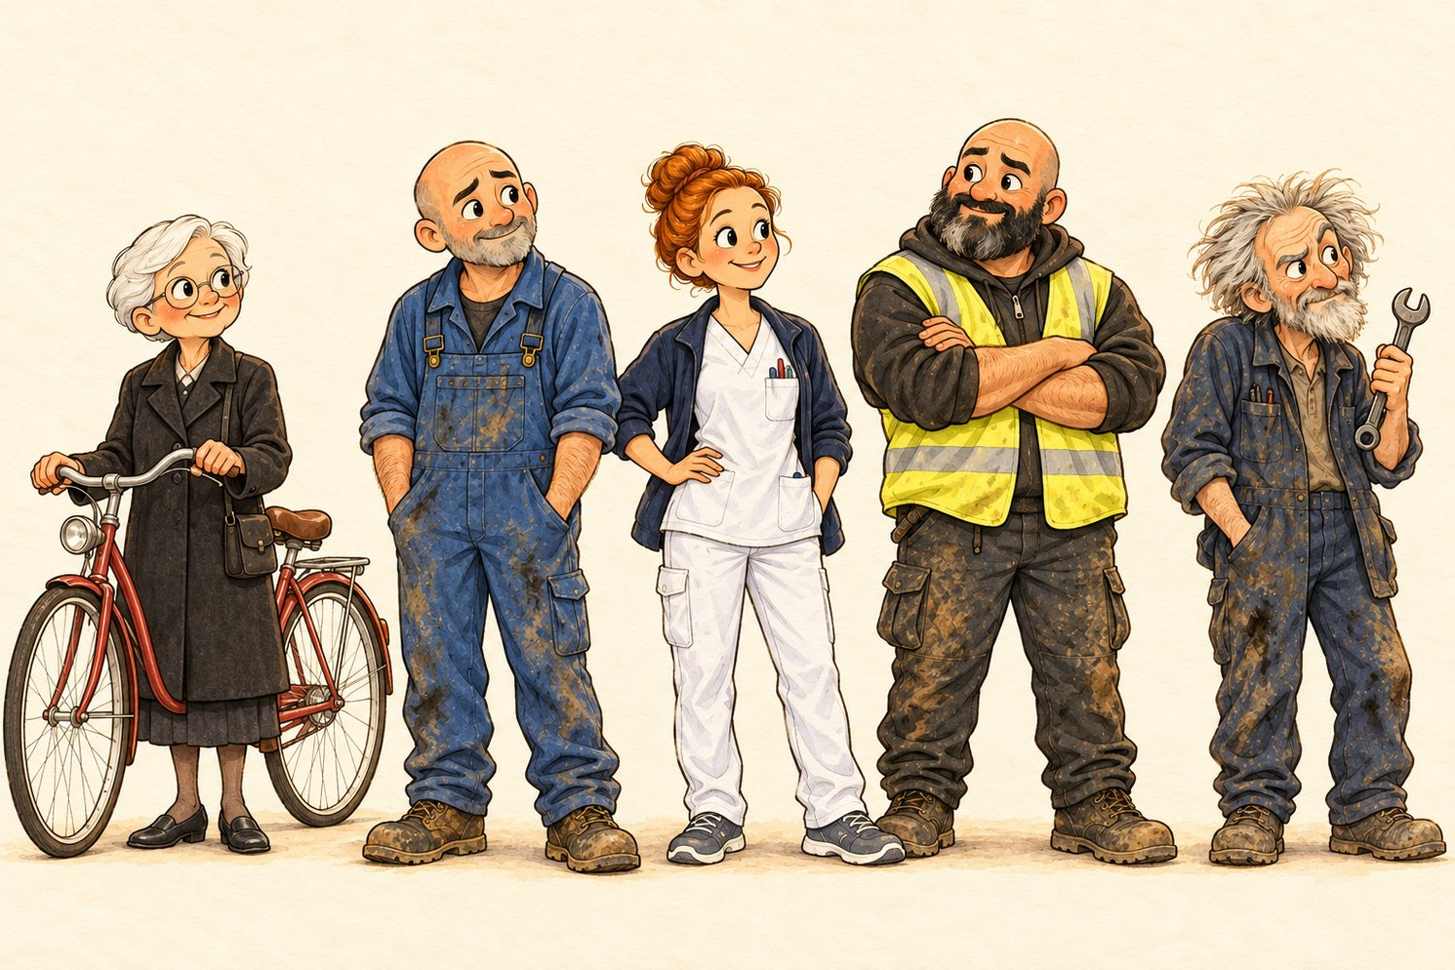
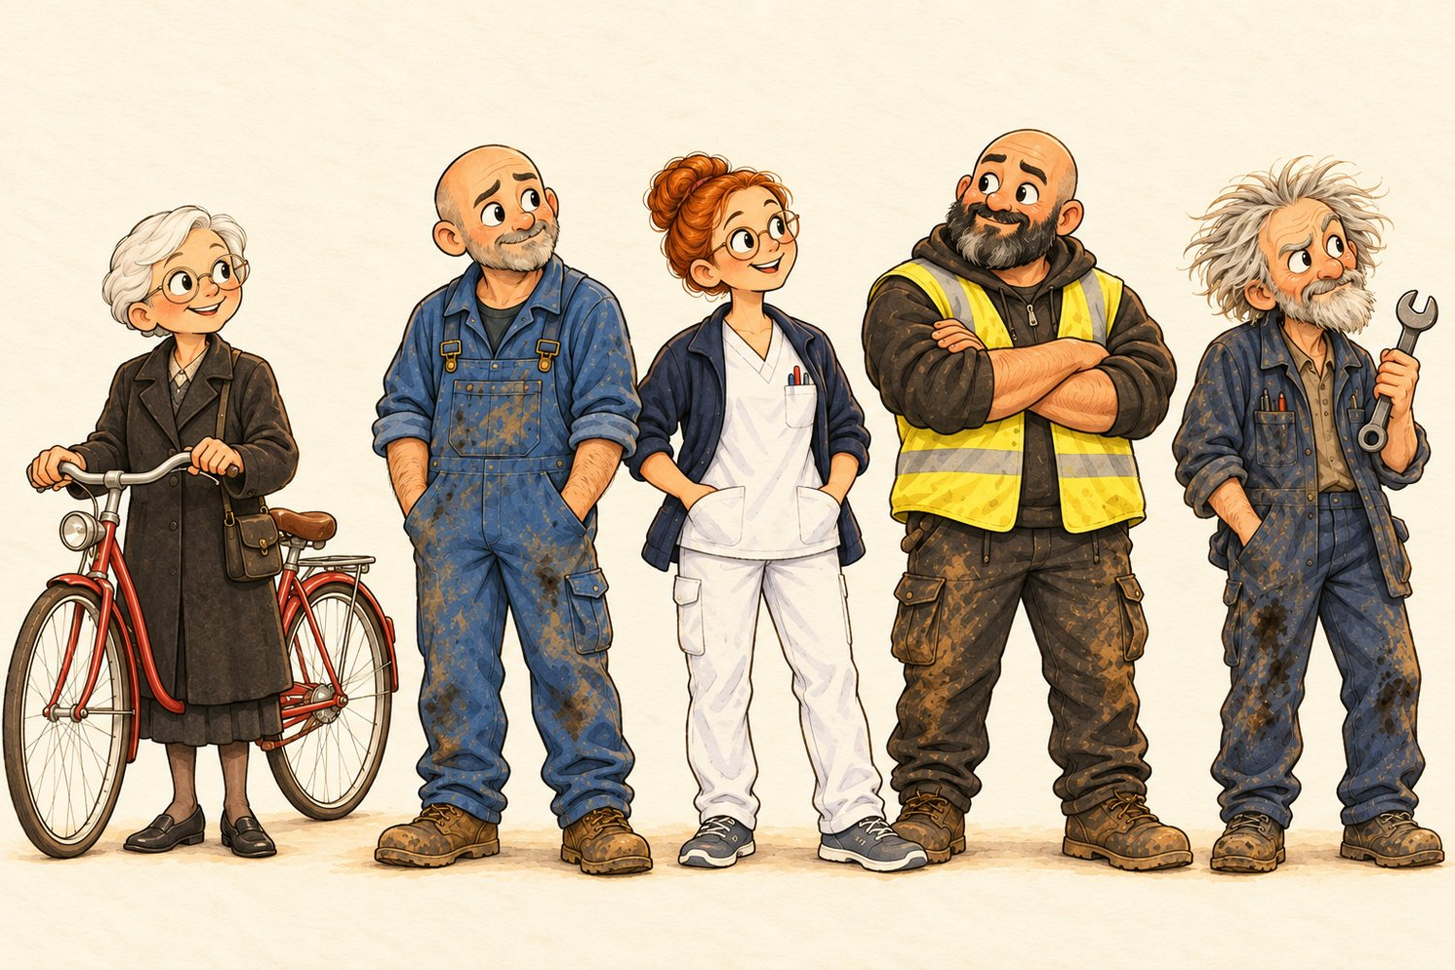
Amerikanska namn, modellark och rättade karaktärer

diff --git a/characters/index.html b/characters/index.html
@@ -29,9 +29,9 @@
 <section><div class="wrap">
 <div class="eyebrow">Internt, för granskning</div>
 <h1>Alla karaktärer</h1>
-<div class="note"><b>Så granskar du:</b> tryck på en bild för full storlek. Skriv vad du vill ändra per karaktär (namn + ändring), så gör jag om just dem. Alla karaktärer i Penny-världen, även Penny, är nya (v2) i samma stil som omslagen. Fäll ut "Visa gamla designen" för att se skillnaden. Ben, Maya och Alex är nu också v2 i samma sagobokstil, med de gamla arken utfällbara under varje serie. Uppdaterat: alla har nu egna frisyrer.</div>
+<div class="note"><b>Namn:</b> engelska (amerikanska) namn först, svenska inom parentes. Hela listan för alla serier finns i NAMN-SV-EN.md. Uppdaterat: Signe, Rådet, Sara och Helena är rättade efter manusen.<br><br><b>Så granskar du:</b> tryck på en bild för full storlek. Skriv vad du vill ändra per karaktär (namn + ändring), så gör jag om just dem. Alla karaktärer i Penny-världen, även Penny, är nya (v2) i samma stil som omslagen. Fäll ut "Visa gamla designen" för att se skillnaden. Ben, Maya och Alex är nu också v2 i samma sagobokstil, med de gamla arken utfällbara under varje serie. Uppdaterat: alla har nu egna frisyrer.</div>
 <h2>Penny and the Golden Notebook (7–10) och Penny and the Seed (3–6)</h2>
 <div class="grid-ch">
-<article class="ch"><a href="img/penny.jpg?v=2" target="_blank"><img src="img/penny.jpg?v=2" alt="Penny Lind, 9" loading="lazy"></a><div class="meta"><span class="tag">Ny v2</span><h3>Penny Lind, 9</h3><p>Huvudpersonen. Samma design som förut (blond page, orange hårband, orange t-shirt, ryggsäck, röda skor) men nu i omslagets akvarellstil, med den gula regnjackan från omslaget.</p><details><summary>Visa gamla designen</summary><img src="img/penny-old.jpg" alt="Gamla Penny" loading="lazy"></details><details><summary>Visa gamla uttrycksarket</summary><img src="img/penny-expr.jpg" alt="Pennys gamla uttryck" loading="lazy"></details></div></article><article class="ch"><a href="img/tommy.jpg" target="_blank"><img src="img/tommy.jpg" alt="Tommy Lind, 6" loading="lazy"></a><div class="meta"><span class="tag">Ny v2</span><h3>Tommy Lind, 6</h3><p>Lillebror. Rött rufsigt hår, blå keps, fräknar, glugg. Frågar "varför?" om allt. Omgjord en gång: v1 fick glasögon.</p><details><summary>Visa gamla designen</summary><img src="img/tommy-old.jpg" alt="Gamla Tommy Lind, 6" loading="lazy"></details></div></article><article class="ch"><a href="img/emma.jpg" target="_blank"><img src="img/emma.jpg" alt="Emma Holm, 9" loading="lazy"></a><div class="meta"><span class="tag">Ny v2</span><h3>Emma Holm, 9</h3><p>Bästa vännen. Långt kopparrött hår, runda glasögon, gul stickad tröja, anteckningsblock. Den noggranna som räknar.</p><details><summary>Visa gamla designen</summary><img src="img/emma-old.jpg" alt="Gamla Emma Holm, 9" loading="lazy"></details></div></article><article class="ch"><a href="img/grandma.jpg" target="_blank"><img src="img/grandma.jpg" alt="Mormor Rose" loading="lazy"></a><div class="meta"><span class="tag">Ny v2</span><h3>Mormor Rose</h3><p>Silvergrå knut, runda glasögon, förkläde med mjöl. Ger aldrig svar, bara frågor: "Och vad tror du själv?"</p><details><summary>Visa gamla designen</summary><img src="img/grandma-old.jpg" alt="Gamla Mormor Rose" loading="lazy"></details></div></article><article class="ch"><a href="img/dad.jpg" target="_blank"><img src="img/dad.jpg" alt="Pappa Johan" loading="lazy"></a><div class="meta"><span class="tag">Ny v2</span><h3>Pappa Johan</h3><p>Snickare med egen firma. Stor, lugn, skägg, sågspån i håret, verktygsbälte. Omgjord: v1 hade glasögon.</p><details><summary>Visa gamla designen</summary><img src="img/dad-old.jpg" alt="Gamla Pappa Johan" loading="lazy"></details></div></article><article class="ch"><a href="img/mom.jpg" target="_blank"><img src="img/mom.jpg" alt="Mamma Sara" loading="lazy"></a><div class="meta"><span class="tag">Ny v2</span><h3>Mamma Sara</h3><p>Sjuksköterska som jobbar natt. Blond hästsvans, varm men trött, skrattar högt.</p><details><summary>Visa gamla designen</summary><img src="img/mom-old.jpg" alt="Gamla Mamma Sara" loading="lazy"></details></div></article><article class="ch"><a href="img/marcus.jpg" target="_blank"><img src="img/marcus.jpg" alt="Marcus Berg, 10" loading="lazy"></a><div class="meta"><span class="tag">Ny v2</span><h3>Marcus Berg, 10</h3><p>Rivalen. Ny jacka, ny cykel, självsäker. Blir långsamt en vän. <b>OBS: skorna har en Nike-logga som måste bort.</b></p><details><summary>Visa gamla designen</summary><img src="img/marcus-old.jpg" alt="Gamla Marcus Berg, 10" loading="lazy"></details></div></article><article class="ch"><a href="img/mrgreen.jpg" target="_blank"><img src="img/mrgreen.jpg" alt="Mr. Green (Åke Grön)" loading="lazy"></a><div class="meta"><span class="tag">Ny v2</span><h3>Mr. Green (Åke Grön)</h3><p>Gammal granne med stort äppelträd och dålig rygg. Kort i tonen, mjuk inuti.</p><details><summary>Visa gamla designen</summary><img src="img/mrgreen-old.jpg" alt="Gamla Mr. Green (Åke Grön)" loading="lazy"></details></div></article><article class="ch"><a href="img/mrslee.jpg" target="_blank"><img src="img/mrslee.jpg" alt="Mrs. Lee + Cinnamon" loading="lazy"></a><div class="meta"><span class="tag">Ny v2</span><h3>Mrs. Lee + Cinnamon</h3><p>Jobbar långa dagar på apoteket. Golden retrievern Cinnamon rymmer jämt.</p><details><summary>Visa gamla designen</summary><img src="img/mrslee-old.jpg" alt="Gamla Mrs. Lee + Cinnamon" loading="lazy"></details></div></article>
+<article class="ch"><a href="img/penny.jpg?v=2" target="_blank"><img src="img/penny.jpg?v=2" alt="Penny Lind, 9" loading="lazy"></a><div class="meta"><span class="tag">Ny v2</span><h3>Penny Carter, 9 <small style="color:var(--muted)">(sv: Penny Lind)</small></h3><p>Huvudpersonen. Samma design som förut (blond page, orange hårband, orange t-shirt, ryggsäck, röda skor) men nu i omslagets akvarellstil, med den gula regnjackan från omslaget.</p><details><summary>Visa gamla designen</summary><img src="img/penny-old.jpg" alt="Gamla Penny" loading="lazy"></details><details><summary>Visa gamla uttrycksarket</summary><img src="img/penny-expr.jpg" alt="Pennys gamla uttryck" loading="lazy"></details></div></article><article class="ch"><a href="img/tommy.jpg" target="_blank"><img src="img/tommy.jpg" alt="Tommy Lind, 6" loading="lazy"></a><div class="meta"><span class="tag">Ny v2</span><h3>Tommy Carter, 6 <small style="color:var(--muted)">(sv: Tommy Lind)</small></h3><p>Lillebror. Rött rufsigt hår, blå keps, fräknar, glugg. Frågar "varför?" om allt. Omgjord en gång: v1 fick glasögon.</p><details><summary>Visa gamla designen</summary><img src="img/tommy-old.jpg" alt="Gamla Tommy Lind, 6" loading="lazy"></details></div></article><article class="ch"><a href="img/emma.jpg" target="_blank"><img src="img/emma.jpg" alt="Emma Holm, 9" loading="lazy"></a><div class="meta"><span class="tag">Ny v2</span><h3>Emma Hayes, 9 <small style="color:var(--muted)">(sv: Emma Holm)</small></h3><p>Bästa vännen. Långt kopparrött hår, runda glasögon, gul stickad tröja, anteckningsblock. Den noggranna som räknar.</p><details><summary>Visa gamla designen</summary><img src="img/emma-old.jpg" alt="Gamla Emma Holm, 9" loading="lazy"></details></div></article><article class="ch"><a href="img/grandma.jpg" target="_blank"><img src="img/grandma.jpg" alt="Mormor Rose" loading="lazy"></a><div class="meta"><span class="tag">Ny v2</span><h3>Mormor Rose</h3><p>Silvergrå knut, runda glasögon, förkläde med mjöl. Ger aldrig svar, bara frågor: "Och vad tror du själv?"</p><details><summary>Visa gamla designen</summary><img src="img/grandma-old.jpg" alt="Gamla Mormor Rose" loading="lazy"></details></div></article><article class="ch"><a href="img/dad.jpg" target="_blank"><img src="img/dad.jpg" alt="Pappa Johan" loading="lazy"></a><div class="meta"><span class="tag">Ny v2</span><h3>Dad Jake Carter <small style="color:var(--muted)">(sv: pappa Johan)</small></h3><p>Snickare med egen firma. Stor, lugn, skägg, sågspån i håret, verktygsbälte. Omgjord: v1 hade glasögon.</p><details><summary>Visa gamla designen</summary><img src="img/dad-old.jpg" alt="Gamla Pappa Johan" loading="lazy"></details></div></article><article class="ch"><a href="img/mom.jpg" target="_blank"><img src="img/mom.jpg" alt="Mamma Sara" loading="lazy"></a><div class="meta"><span class="tag">Ny v2</span><h3>Mom Sarah Carter <small style="color:var(--muted)">(sv: mamma Sara)</small></h3><p>Sjuksköterska som jobbar natt. Blond hästsvans, varm men trött, skrattar högt.</p><details><summary>Visa gamla designen</summary><img src="img/mom-old.jpg" alt="Gamla Mamma Sara" loading="lazy"></details></div></article><article class="ch"><a href="img/marcus.jpg" target="_blank"><img src="img/marcus.jpg" alt="Marcus Berg, 10" loading="lazy"></a><div class="meta"><span class="tag">Ny v2</span><h3>Marcus Bell, 10 <small style="color:var(--muted)">(sv: Marcus Berg)</small></h3><p>Rivalen. Ny jacka, ny cykel, självsäker. Blir långsamt en vän. <b>OBS: skorna har en Nike-logga som måste bort.</b></p><details><summary>Visa gamla designen</summary><img src="img/marcus-old.jpg" alt="Gamla Marcus Berg, 10" loading="lazy"></details></div></article><article class="ch"><a href="img/mrgreen.jpg" target="_blank"><img src="img/mrgreen.jpg" alt="Mr. Green (Åke Grön)" loading="lazy"></a><div class="meta"><span class="tag">Ny v2</span><h3>Mr. Walter Green <small style="color:var(--muted)">(sv: Åke Grön)</small></h3><p>Gammal granne med stort äppelträd och dålig rygg. Kort i tonen, mjuk inuti.</p><details><summary>Visa gamla designen</summary><img src="img/mrgreen-old.jpg" alt="Gamla Mr. Green (Åke Grön)" loading="lazy"></details></div></article><article class="ch"><a href="img/mrslee.jpg" target="_blank"><img src="img/mrslee.jpg" alt="Mrs. Lee + Cinnamon" loading="lazy"></a><div class="meta"><span class="tag">Ny v2</span><h3>Mrs. Lee + Cinnamon</h3><p>Jobbar långa dagar på apoteket. Golden retrievern Cinnamon rymmer jämt.</p><details><summary>Visa gamla designen</summary><img src="img/mrslee-old.jpg" alt="Gamla Mrs. Lee + Cinnamon" loading="lazy"></details></div></article>
 </div>
-<h2 style="margin-top:40px">Ben och Uppfinnarens karta (7–10)</h2><div class="grid-ch"><article class="ch"><a href="img/ben-hero.jpg?v=3" target="_blank"><img src="img/ben-hero.jpg?v=3" alt="Ben Ek, 10" loading="lazy"></a><div class="meta"><span class="tag">Ny v2</span><h3>Ben Ek, 10</h3><p>Uppfinnaren. Spretigt mörkblont hår, blyertspenna bakom örat, Edvins för stora läderförkläde, kartan och skruvmejseln.</p></div></article><article class="ch"><a href="img/ben-kids.jpg?v=3" target="_blank"><img src="img/ben-kids.jpg?v=3" alt="De unga" loading="lazy"></a><div class="meta"><span class="tag">Ny v2</span><h3>De unga</h3><p>Från vänster: Ben, lillasyster Ella (7, flätor, gul regnjacka, ficklampa), Omar (10, ritar bättre än alla), Liv (11, sportstjärnan och rivalen).</p></div></article><article class="ch"><a href="img/ben-adults.jpg?v=3" target="_blank"><img src="img/ben-adults.jpg?v=3" alt="De vuxna" loading="lazy"></a><div class="meta"><span class="tag">Ny v2</span><h3>De vuxna</h3><p>Från vänster: Signe Holm (82, Solgården, fuskar i kort), mamma Karin (undersköterska), pappa Mats (elektriker), kommunrådet Berit Stål, en gammal man med Edvins nycklar.</p></div></article></div><details style="margin-bottom:10px"><summary>Visa gamla karaktärsarket för Ben och Uppfinnarens karta</summary><img src="img/ben-cast.jpg" alt="Gamla arket" loading="lazy" style="margin-top:10px;border-radius:10px"></details><h2 style="margin-top:40px">Maya och Tornets utmaning (11–14)</h2><div class="grid-ch"><article class="ch"><a href="img/maya-hero.jpg" target="_blank"><img src="img/maya-hero.jpg" alt="Maya Falk, 13" loading="lazy"></a><div class="meta"><span class="tag">Ny v2</span><h3>Maya Falk, 13</h3><p>Snabb i huvudet och munnen. Lockigt mörkt hår i slarvig knut med blyertspenna, grön parkas, anteckningsblocket och den gamla nyckeln. Vattentornet i bakgrunden.</p></div></article><article class="ch"><a href="img/maya-kids.jpg?v=3" target="_blank"><img src="img/maya-kids.jpg?v=3" alt="De unga" loading="lazy"></a><div class="meta"><span class="tag">Ny v2</span><h3>De unga</h3><p>Från vänster: Maya, Adam Karimi (14, rivalen), Sofia Holm (13, konstnärlig och blyg), Leo Strand (12, den roliga), lillebror Ivar (8).</p></div></article><article class="ch"><a href="img/maya-adults.jpg?v=3" target="_blank"><img src="img/maya-adults.jpg?v=3" alt="De vuxna och Rådet" loading="lazy"></a><div class="meta"><span class="tag">Ny v2</span><h3>De vuxna och Rådet</h3><p>Från vänster: mamma Linda (kaféet), mormor Gun (gungstolen), och Rådet i vattentornet.</p></div></article></div><details style="margin-bottom:10px"><summary>Visa gamla karaktärsarket för Maya och Tornets utmaning</summary><img src="img/maya-cast.jpg" alt="Gamla arket" loading="lazy" style="margin-top:10px;border-radius:10px"></details><h2 style="margin-top:40px">The Condition / Villkoret (15–18)</h2><div class="grid-ch"><article class="ch"><a href="img/alex-hero.jpg" target="_blank"><img src="img/alex-hero.jpg" alt="Alex Moberg, 17" loading="lazy"></a><div class="meta"><span class="tag">Ny v2</span><h3>Alex Moberg, 17</h3><p>Lång och gänglig, rufsigt mörkt hår, hörlurar runt halsen, kuvertet med vaxsigill på bryggan. Lite äldre tonårsproportioner men samma stil.</p></div></article><article class="ch"><a href="img/alex-kids.jpg?v=3" target="_blank"><img src="img/alex-kids.jpg?v=3" alt="De unga" loading="lazy"></a><div class="meta"><span class="tag">Ny v2</span><h3>De unga</h3><p>Från vänster: Alex, Nils Åberg (krypto och snabba pengar), Sara Haddad (vill bli läkare, jobbar i varvets kafé), lillasyster Wilma (12).</p></div></article><article class="ch"><a href="img/alex-adults.jpg?v=3" target="_blank"><img src="img/alex-adults.jpg?v=3" alt="De vuxna" loading="lazy"></a><div class="meta"><span class="tag">Ny v2</span><h3>De vuxna</h3><p>Från vänster: Edith Lagerlund (78, förvaltaren, damcykeln), pappa Tomas (svetsare), mamma Helena (sjuksköterska), Rami Saleh (arbetsledare på varvet), Kenneth Ström (båtmotormekaniker).</p></div></article></div><details style="margin-bottom:10px"><summary>Visa gamla karaktärsarket för The Condition / Villkoret</summary><img src="img/alex-cast.jpg" alt="Gamla arket" loading="lazy" style="margin-top:10px;border-radius:10px"></details></div></section></body></html>
+<h2 style="margin-top:40px">Modellark: ansiktsdrag, vändning och uttryck (Penny-världen)</h2><p style="color:var(--muted)">Så att varje karaktär ser likadan ut i alla böcker. Varje ark: fram, tre fjärdedelar, profil, bak och sex uttryck. Beskrivningarna (ansikte, hår, palett, bakgrund, båge) finns i KARAKTARSBIBEL.md.</p><div class="grid-ch"><article class="ch"><a href="img/modell-lineup.jpg" target="_blank"><img src="img/modell-lineup.jpg" alt="Modellark Längdlinje, alla i Penny-världen" loading="lazy"></a><div class="meta"><h3>Längdlinje, alla i Penny-världen</h3></div></article><article class="ch"><a href="img/modell-penny.jpg" target="_blank"><img src="img/modell-penny.jpg" alt="Modellark Penny Carter" loading="lazy"></a><div class="meta"><h3>Penny Carter</h3></div></article><article class="ch"><a href="img/modell-tommy.jpg" target="_blank"><img src="img/modell-tommy.jpg" alt="Modellark Tommy Carter" loading="lazy"></a><div class="meta"><h3>Tommy Carter</h3></div></article><article class="ch"><a href="img/modell-emma.jpg" target="_blank"><img src="img/modell-emma.jpg" alt="Modellark Emma Hayes" loading="lazy"></a><div class="meta"><h3>Emma Hayes</h3></div></article><article class="ch"><a href="img/modell-grandma.jpg" target="_blank"><img src="img/modell-grandma.jpg" alt="Modellark Grandma Rose" loading="lazy"></a><div class="meta"><h3>Grandma Rose</h3></div></article><article class="ch"><a href="img/modell-dad.jpg" target="_blank"><img src="img/modell-dad.jpg" alt="Modellark Dad Jake Carter" loading="lazy"></a><div class="meta"><h3>Dad Jake Carter</h3></div></article><article class="ch"><a href="img/modell-mom.jpg" target="_blank"><img src="img/modell-mom.jpg" alt="Modellark Mom Sarah Carter" loading="lazy"></a><div class="meta"><h3>Mom Sarah Carter</h3></div></article><article class="ch"><a href="img/modell-marcus.jpg" target="_blank"><img src="img/modell-marcus.jpg" alt="Modellark Marcus Bell" loading="lazy"></a><div class="meta"><h3>Marcus Bell</h3></div></article><article class="ch"><a href="img/modell-mrgreen.jpg" target="_blank"><img src="img/modell-mrgreen.jpg" alt="Modellark Mr. Walter Green" loading="lazy"></a><div class="meta"><h3>Mr. Walter Green</h3></div></article><article class="ch"><a href="img/modell-mrslee.jpg" target="_blank"><img src="img/modell-mrslee.jpg" alt="Modellark Mrs. Lee och Cinnamon" loading="lazy"></a><div class="meta"><h3>Mrs. Lee och Cinnamon</h3></div></article></div><h2 style="margin-top:40px">Ben och Uppfinnarens karta (7–10)</h2><div class="grid-ch"><article class="ch"><a href="img/ben-hero.jpg?v=3" target="_blank"><img src="img/ben-hero.jpg?v=3" alt="Ben Ek, 10" loading="lazy"></a><div class="meta"><span class="tag">Ny v2</span><h3>Ben Walker, 10 <small style="color:var(--muted)">(sv: Ben Ek)</small></h3><p>Uppfinnaren. Spretigt mörkblont hår, blyertspenna bakom örat, Edvins för stora läderförkläde, kartan och skruvmejseln.</p></div></article><article class="ch"><a href="img/ben-kids.jpg?v=3" target="_blank"><img src="img/ben-kids.jpg?v=3" alt="De unga" loading="lazy"></a><div class="meta"><span class="tag">Ny v2</span><h3>De unga</h3><p>Från vänster: Ben, lillasyster Ella (7, flätor, gul regnjacka, ficklampa), Omar (10, ritar bättre än alla), Liv (11, sportstjärnan och rivalen).</p></div></article><article class="ch"><a href="img/ben-adults.jpg?v=4" target="_blank"><img src="img/ben-adults.jpg?v=4" alt="De vuxna" loading="lazy"></a><div class="meta"><span class="tag">Ny v2</span><h3>De vuxna</h3><p>Från vänster: Signe Holm (82, Solgården, fuskar i kort), mamma Karin (undersköterska), pappa Mats (elektriker), kommunrådet Berit Stål, en gammal man med Edvins nycklar.</p></div></article></div><details style="margin-bottom:10px"><summary>Visa gamla karaktärsarket för Ben och Uppfinnarens karta</summary><img src="img/ben-cast.jpg" alt="Gamla arket" loading="lazy" style="margin-top:10px;border-radius:10px"></details><h2 style="margin-top:40px">Maya och Tornets utmaning (11–14)</h2><div class="grid-ch"><article class="ch"><a href="img/maya-hero.jpg" target="_blank"><img src="img/maya-hero.jpg" alt="Maya Falk, 13" loading="lazy"></a><div class="meta"><span class="tag">Ny v2</span><h3>Maya Fowler, 13 <small style="color:var(--muted)">(sv: Maya Falk)</small></h3><p>Snabb i huvudet och munnen. Lockigt mörkt hår i slarvig knut med blyertspenna, grön parkas, anteckningsblocket och den gamla nyckeln. Vattentornet i bakgrunden.</p></div></article><article class="ch"><a href="img/maya-kids.jpg?v=3" target="_blank"><img src="img/maya-kids.jpg?v=3" alt="De unga" loading="lazy"></a><div class="meta"><span class="tag">Ny v2</span><h3>De unga</h3><p>Från vänster: Maya, Adam Karimi (14, rivalen), Sofia Holm (13, konstnärlig och blyg), Leo Strand (12, den roliga), lillebror Ivar (8).</p></div></article><article class="ch"><a href="img/maya-adults.jpg?v=4" target="_blank"><img src="img/maya-adults.jpg?v=4" alt="De vuxna och Rådet" loading="lazy"></a><div class="meta"><span class="tag">Ny v2</span><h3>De vuxna och Rådet</h3><p>Från vänster: mamma Linda (kaféet), mormor Gun (gungstolen), och Rådet i vattentornet.</p></div></article></div><details style="margin-bottom:10px"><summary>Visa gamla karaktärsarket för Maya och Tornets utmaning</summary><img src="img/maya-cast.jpg" alt="Gamla arket" loading="lazy" style="margin-top:10px;border-radius:10px"></details><h2 style="margin-top:40px">The Condition / Villkoret (15–18)</h2><div class="grid-ch"><article class="ch"><a href="img/alex-hero.jpg" target="_blank"><img src="img/alex-hero.jpg" alt="Alex Moberg, 17" loading="lazy"></a><div class="meta"><span class="tag">Ny v2</span><h3>Alex Mercer, 17 <small style="color:var(--muted)">(sv: Alex Moberg)</small></h3><p>Lång och gänglig, rufsigt mörkt hår, hörlurar runt halsen, kuvertet med vaxsigill på bryggan. Lite äldre tonårsproportioner men samma stil.</p></div></article><article class="ch"><a href="img/alex-kids.jpg?v=4" target="_blank"><img src="img/alex-kids.jpg?v=4" alt="De unga" loading="lazy"></a><div class="meta"><span class="tag">Ny v2</span><h3>De unga</h3><p>Från vänster: Alex, Nils Åberg (krypto och snabba pengar), Sara Haddad (vill bli läkare, jobbar i varvets kafé), lillasyster Wilma (12).</p></div></article><article class="ch"><a href="img/alex-adults.jpg?v=4" target="_blank"><img src="img/alex-adults.jpg?v=4" alt="De vuxna" loading="lazy"></a><div class="meta"><span class="tag">Ny v2</span><h3>De vuxna</h3><p>Från vänster: Edith Lagerlund (78, förvaltaren, damcykeln), pappa Tomas (svetsare), mamma Helena (sjuksköterska), Rami Saleh (arbetsledare på varvet), Kenneth Ström (båtmotormekaniker).</p></div></article></div><details style="margin-bottom:10px"><summary>Visa gamla karaktärsarket för The Condition / Villkoret</summary><img src="img/alex-cast.jpg" alt="Gamla arket" loading="lazy" style="margin-top:10px;border-radius:10px"></details></div></section></body></html>

diff --git a/index.html b/index.html
@@ -84,16 +84,16 @@
   <div class="wrap">
     <div class="center narrow" style="margin:0 auto">
       <div class="eyebrow">Meet the characters</div>
-      <h2>Penny and her friends in Ekvik</h2>
+      <h2>Penny and her friends in Oak Harbor</h2>
       <p style="color:var(--muted)">A little harbor town by the sea, a red house on Oak Street, and the people your kids will grow up with.</p>
     </div>
     <div class="cast">
-      <div class="person"><img src="img/cast/penny.jpg" alt="Penny"><h3>Penny Lind, 9</h3><p>Curious, impatient, never gives up. Promises a bit too much, and always <i>sees</i> people.</p></div>
-      <div class="person"><img src="img/cast/emma.jpg" alt="Emma"><h3>Emma Holm, 9</h3><p>Penny's best friend. Thinks before she speaks, counts every cent, keeps it all working.</p></div>
+      <div class="person"><img src="img/cast/penny.jpg" alt="Penny"><h3>Penny Carter, 9</h3><p>Curious, impatient, never gives up. Promises a bit too much, and always <i>sees</i> people.</p></div>
+      <div class="person"><img src="img/cast/emma.jpg" alt="Emma"><h3>Emma Hayes, 9</h3><p>Penny's best friend. Thinks before she speaks, counts every cent, keeps it all working.</p></div>
       <div class="person"><img src="img/cast/tommy.jpg" alt="Tommy"><h3>Tommy, 6</h3><p>Little brother. Asks "why?" about everything. Takes every job very seriously.</p></div>
       <div class="person"><img src="img/cast/grandma.jpg" alt="Grandma Rose"><h3>Grandma Rose</h3><p>Never gives answers, only questions. "And what do you think?"</p></div>
-      <div class="person"><img src="img/cast/mrgreen.jpg" alt="Mr. Green"><h3>Mr. Green</h3><p>Grumpy neighbor with a bad back and the biggest apple tree in Ekvik. Soft inside.</p></div>
-      <div class="person"><img src="img/cast/marcus.jpg" alt="Marcus"><h3>Marcus Berg, 10</h3><p>The rival with the new bike and the soda stand. Not as tough as he looks.</p></div>
+      <div class="person"><img src="img/cast/mrgreen.jpg" alt="Mr. Green"><h3>Mr. Green</h3><p>Grumpy neighbor with a bad back and the biggest apple tree in Oak Harbor. Soft inside.</p></div>
+      <div class="person"><img src="img/cast/marcus.jpg" alt="Marcus"><h3>Marcus Bell, 10</h3><p>The rival with the new bike and the soda stand. Not as tough as he looks.</p></div>
     </div>
   </div>
 </section>

diff --git a/play/index.html b/play/index.html
@@ -133,7 +133,7 @@ var EVENTS = [
   {id:"green", who:'<i class="fa-solid fa-person-cane" style="color:#8A5A2B" aria-hidden="true"></i> <i class="fa-solid fa-apple-whole" style="color:#B5392E" aria-hidden="true"></i>', title:"Mr. Green's apples",
    text:"Mr. Green's back hurts and his apples are falling all over the lawn. If you help him pick them up, you'll open the stand late today.",
    choices:[
-     {t:"Help Mr. Green first", f:function(){ S.lateStart=true; S.rep=clamp(S.rep+0.15,0.5,1.8); S.nextDayBonus+=6; S.helped++; S.earned+=3; S.money+=3; return "Mr. Green pressed $3 into your hand and said, \"You're a good one, Penny Lind.\" He'll tell his friends about your lemonade."; }},
+     {t:"Help Mr. Green first", f:function(){ S.lateStart=true; S.rep=clamp(S.rep+0.15,0.5,1.8); S.nextDayBonus+=6; S.helped++; S.earned+=3; S.money+=3; return "Mr. Green pressed $3 into your hand and said, \"You're a good one, Penny Carter.\" He'll tell his friends about your lemonade."; }},
      {t:"Sorry, I have to sell today", f:function(){ return "You open on time. Mr. Green waves, but he looks tired."; }}
    ]},
   {id:"marcus", who:'<i class="fa-solid fa-campground" style="color:#2F5D7C" aria-hidden="true"></i> <i class="fa-solid fa-tags" style="color:#D9662B" aria-hidden="true"></i>', title:"Marcus opens next door",
